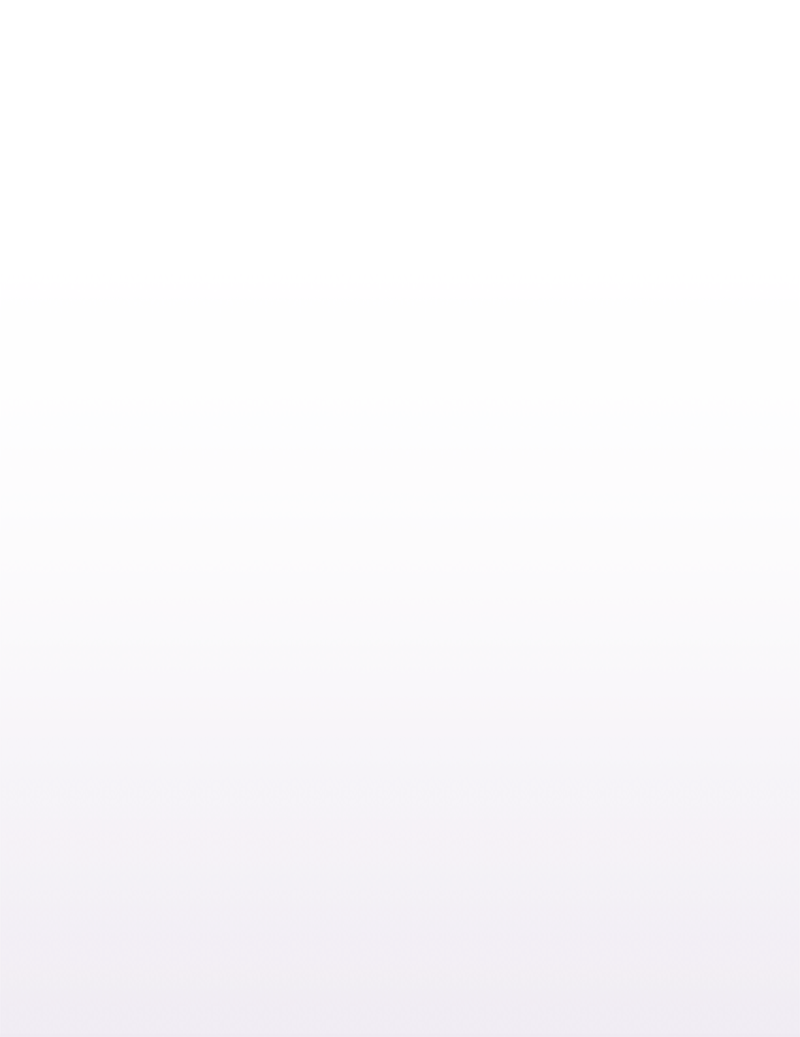
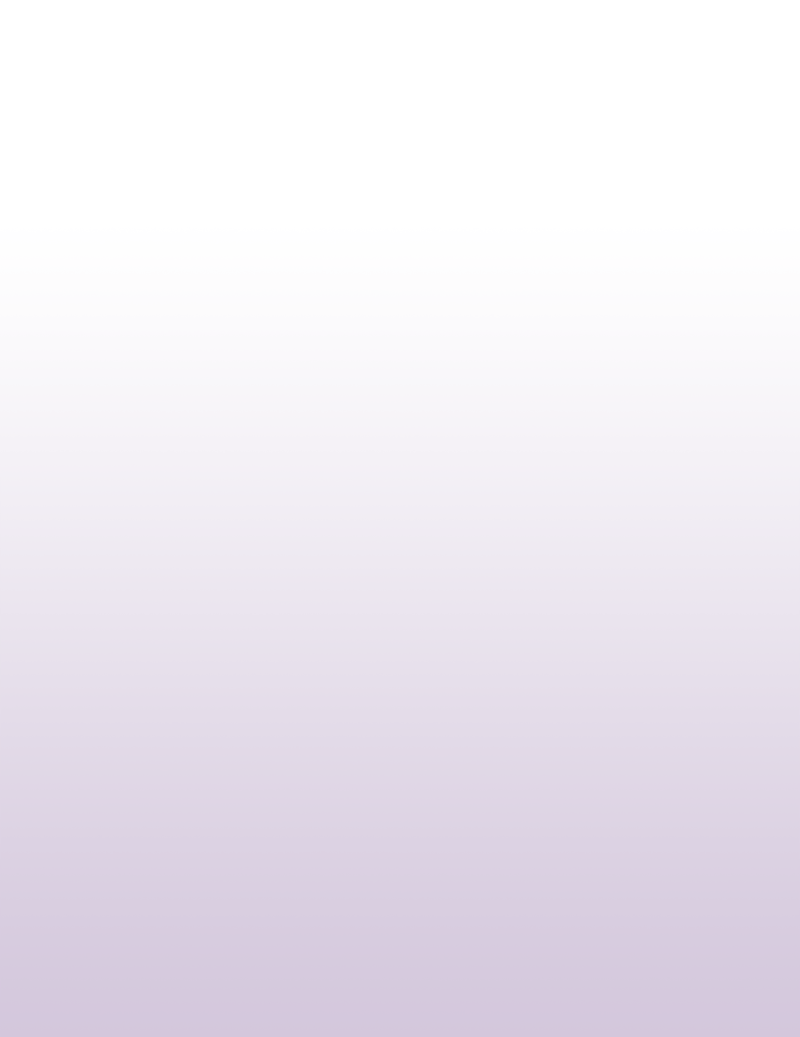
Update modals and gradient

diff --git a/src/screens/Home.js b/src/screens/Home.js
@@ -25,6 +25,7 @@ import Images from '../../assets/imgs/index';
 import Modal from "react-native-modal";
 import Icon from 'react-native-vector-icons/FontAwesome';
 
+// TODO make this carry a whole event object, and contain the modal to render! make this its own file too
 const EventCard = ({ name, saves, img, big }) => {
   const dimensions = require('Dimensions').get('window');
 
@@ -68,67 +69,223 @@ export default class Home extends Component<Props> {
     super(props);
     this.state = {
       isUpdatesModalVisible: false,
+      isPopularModalVisible: false,
+      isBeginnerModalVisible: false,
     }
     this.toggleUpdatesModal = this.toggleUpdatesModal.bind(this);
+    this.togglePopularModal = this.togglePopularModal.bind(this);
+    this.toggleBegModal = this.toggleBegModal.bind(this);
   }
 
-  toggleUpdatesModal = (question, answer) => {
+  toggleUpdatesModal() {
     this.setState({ isUpdatesModalVisible: !this.state.isUpdatesModalVisible })
   }
+  togglePopularModal() {
+    this.setState({ isPopularModalVisible: !this.state.isPopularModalVisible })
+  }
+  toggleBegModal() {
+    this.setState({ isBeginnerModalVisible: !this.state.isBeginnerModalVisible })
+  }
 
-  closeModal = () =>
-    this.setState({ isUpdatesModalVisible: false });
+  renderPopularModal = () => (
+    <Modal
+      isVisible={this.state.isPopularModalVisible}
+      backdropColor={'white'}
+      backdropOpacity={1}
+      animationInTiming={250}
+      animationIn="fadeIn"
+      animationOut="fadeOut"
+      animationOutTiming={250}
+      backdropTransitionInTiming={250}
+      backdropTransitionOutTiming={250}
+      avoidKeyboard={true}
+      onBackButtonPress={() => this.togglePopularModal()}
+    >
+      <ModalContent>
+        <ModalHeader
+          onBackButtonPress={() => this.togglePopularModal()}
+          heading="Popular Events"
+        />
+      </ModalContent>
+    </Modal>
+  )
 
-  render() {
+  renderBegModal = () => (
+    <Modal
+      isVisible={this.state.isBeginnerModalVisible}
+      backdropColor={'white'}
+      backdropOpacity={1}
+      animationInTiming={250}
+      animationIn="fadeIn"
+      animationOut="fadeOut"
+      animationOutTiming={250}
+      backdropTransitionInTiming={250}
+      backdropTransitionOutTiming={250}
+      avoidKeyboard={true}
+      onBackButtonPress={() => this.toggleBegModal()}
+    >
+      <ModalContent>
+        <ModalHeader
+          onBackButtonPress={() => this.toggleBegModal()}
+          heading="Best for Beginners"
+        />
+      </ModalContent>
+    </Modal>
+  )
+
+  renderUpdatesModal = () => (
+    <Modal
+      isVisible={this.state.isUpdatesModalVisible}
+      backdropColor={'white'}
+      backdropOpacity={1}
+      animationInTiming={250}
+      animationIn="fadeIn"
+      animationOut="fadeOut"
+      animationOutTiming={250}
+      backdropTransitionInTiming={250}
+      backdropTransitionOutTiming={250}
+      avoidKeyboard={true}
+      onBackButtonPress={() => this.toggleUpdatesModal()}
+    >
+      <ModalContent>
+        <ModalHeader
+          onBackButtonPress={() => this.toggleUpdatesModal()}
+          heading="Recent Updates"
+        />
+        <Spacing/>
+        <H4>11:15am</H4>
+        <H6>Lunch has beeen postponed until tomorrow.</H6>
+        <Spacing/>
+        <HorizontalLine/>
+        <Spacing/>
+        <H4>11:15am</H4>
+        <H6>Lunch has been postponed until tomorrow.</H6>
+        <Spacing/>
+        <HorizontalLine/>
+        <Spacing/>
+        <H4>11:15am</H4>
+        <H6>Lunch has been postponed until tomorrow.</H6>
+        <Spacing/>
+        <HorizontalLine/>
+        <Spacing/>
+        <H4>11:15am</H4>
+        <H6>Lunch has been postponed until tomorrow.</H6>
+        <Spacing/>
+        <HorizontalLine/>
+        <Spacing/>
+        <H4>11:15am</H4>
+        <H6>Lunch has been postponed until tomorrow.</H6>
+        <Spacing/>
+        <HorizontalLine/>
+        <Spacing/>
+      </ModalContent>
+    </Modal>
+  )
+
+  renderUpdatesSection = () => {
+    return (
+      <View>
+        {this.renderUpdatesModal()}
+        <PadContainer>
+          <H2 style={styles.heading}>Recent Updates</H2>
+        </PadContainer>
+        <TouchableOpacity onPress={() => this.toggleUpdatesModal()}>
+          <PaperSheet>
+            <H4>11:15am</H4>
+            <H6>Lunch has been postponed until tomorrow.</H6>
+            <Spacing/>
+            <HorizontalLine/>
+            <Spacing/>
+            <H6>View 5 other updates</H6>
+          </PaperSheet>
+        </TouchableOpacity>
+      </View>
+    );
+  }
+
+  renderPopularEventsSection = () => {
     const { width, height } = require('Dimensions').get('window');
     return (
+      <View>
+        {this.renderPopularModal()}
+
+        <PadContainer white style={styles.subSection}>
+          <H2>Popular Events</H2>
+        </PadContainer>
+
+        <View style={{ backgroundColor: 'white' }}>
+          <PadContainer white style={[styles.columnContainer, { width: width }]}>
+            <View style={styles.column}>
+              <EventCard name="Demo Event" saves="255" img="demo1"/>
+              <EventCard name="Demo Event" saves="255" img="demo1"/>
+              <EventCard name="Demo Event" saves="255" img="demo3"/>
+            </View>
+            <View style={{width: 20}}></View>
+            <View style={styles.column}>
+              <EventCard name="Demo Event" saves="255" img="demo2"/>
+              <EventCard name="Demo Event" saves="255" img="demo3"/>
+              <EventCard name="Demo Event" saves="255" img="demo1"/>
+            </View>
+          </PadContainer>
+          <TouchableOpacity onPress={() => this.togglePopularModal()}>
+            <Button text="View All" />
+          </TouchableOpacity>
+          <Spacing />
+        </View>
+
+      </View>
+    )
+  }
+
+  renderBestForBeginnersSection = () => {
+    const { width, height } = require('Dimensions').get('window');
+    return (
+      <View style={{ backgroundColor: 'white' }}>
+
+        {this.renderBegModal()}
+
+        <PadContainer white style={styles.subSection}>
+          <H2>Best for Beginners</H2>
+        </PadContainer>
+
+        <PadContainer white style={[styles.columnContainer, { width: width }]}>
+          <View style={styles.column}>
+            <EventCard name="Demo Event" saves="255" img="demo1"/>
+            <EventCard name="Demo Event" saves="255" img="demo1"/>
+            <EventCard name="Demo Event" saves="255" img="demo3"/>
+
+          </View>
+
+          <View style={{width: 20}}></View>
+
+          <View style={styles.column}>
+            <EventCard name="Demo Event" saves="255" img="demo2"/>
+            <EventCard name="Demo Event" saves="255" img="demo3"/>
+            <EventCard name="Demo Event" saves="255" img="demo1"/>
+          </View>
+        </PadContainer>
+        <TouchableOpacity onPress={() => this.toggleBegModal()}>
+          <Button text="View All" />
+        </TouchableOpacity>
+        <Spacing />
+      </View>
+    )
+  }
+
+  renderMapSection = () => (
+    <View style={{ backgroundColor: 'white' }}>
+      <PadContainer white style={styles.subSection}>
+        <H2>Venue Map</H2>
+      </PadContainer>
+      <PadContainer>
+        <EventCard big img="demo1"/>
+      </PadContainer>
+    </View>
+  )
+
+  render() {
+    return (
       <GradientBackground>
-        <Modal
-          isVisible={this.state.isUpdatesModalVisible}
-          backdropColor={'white'}
-          backdropOpacity={1}
-          animationInTiming={250}
-          animationIn="fadeIn"
-          animationOut="fadeOut"
-          animationOutTiming={250}
-          backdropTransitionInTiming={250}
-          backdropTransitionOutTiming={250}
-          avoidKeyboard={true}
-          onBackButtonPress={() => this.toggleUpdatesModal()}
-        >
-          <ModalContent>
-            <ModalHeader
-              onBackButtonPress={() => this.toggleUpdatesModal()}
-              heading="Recent Updates"
-            />
-            <Spacing/>
-            <H4>11:15am</H4>
-            <H6>Lunch has beeen postponed until tomorrow.</H6>
-            <Spacing/>
-            <HorizontalLine/>
-            <Spacing/>
-            <H4>11:15am</H4>
-            <H6>Lunch has been postponed until tomorrow.</H6>
-            <Spacing/>
-            <HorizontalLine/>
-            <Spacing/>
-            <H4>11:15am</H4>
-            <H6>Lunch has been postponed until tomorrow.</H6>
-            <Spacing/>
-            <HorizontalLine/>
-            <Spacing/>
-            <H4>11:15am</H4>
-            <H6>Lunch has been postponed until tomorrow.</H6>
-            <Spacing/>
-            <HorizontalLine/>
-            <Spacing/>
-            <H4>11:15am</H4>
-            <H6>Lunch has been postponed until tomorrow.</H6>
-            <Spacing/>
-            <HorizontalLine/>
-            <Spacing/>
-          </ModalContent>
-        </Modal>
         <ViewContainer>
           <PadContainer>
             <Heading>
@@ -138,78 +295,10 @@ export default class Home extends Component<Props> {
               16h 34m 53s left to hack
             </SubHeading>
           </PadContainer>
-
-          <PadContainer>
-            <H2 style={styles.heading}>Recent Updates</H2>
-          </PadContainer>
-          <TouchableOpacity onPress={() => this.toggleUpdatesModal()}>
-            <PaperSheet>
-              <H4>11:15am</H4>
-              <H6>Lunch has been postponed until tomorrow.</H6>
-              <Spacing/>
-              <HorizontalLine/>
-              <Spacing/>
-              <H6>View 5 other updates</H6>
-            </PaperSheet>
-          </TouchableOpacity>
-
-          <PadContainer white style={styles.subSection}>
-            <H2>Popular Events</H2>
-          </PadContainer>
-
-          <View style={styles.bottomContainer}>
-            <PadContainer white style={[styles.columnContainer, { width: width }]}>
-              <View style={styles.column}>
-                <EventCard name="Demo Event" saves="255" img="demo1"/>
-                <EventCard name="Demo Event" saves="255" img="demo1"/>
-                <EventCard name="Demo Event" saves="255" img="demo3"/>
-              </View>
-              <View style={{width: 20}}></View>
-              <View style={styles.column}>
-                <EventCard name="Demo Event" saves="255" img="demo2"/>
-                <EventCard name="Demo Event" saves="255" img="demo3"/>
-                <EventCard name="Demo Event" saves="255" img="demo1"/>
-              </View>
-            </PadContainer>
-
-            <Button text="View All" />
-            <Spacing />
-
-            <PadContainer white style={styles.subSection}>
-              <H2>Best for Beginners</H2>
-            </PadContainer>
-
-            <PadContainer white style={[styles.columnContainer, { width: width }]}>
-              <View style={styles.column}>
-                <EventCard name="Demo Event" saves="255" img="demo1"/>
-                <EventCard name="Demo Event" saves="255" img="demo1"/>
-                <EventCard name="Demo Event" saves="255" img="demo3"/>
-
-              </View>
-
-              <View style={{width: 20}}></View>
-
-              <View style={styles.column}>
-                <EventCard name="Demo Event" saves="255" img="demo2"/>
-                <EventCard name="Demo Event" saves="255" img="demo3"/>
-                <EventCard name="Demo Event" saves="255" img="demo1"/>
-              </View>
-            </PadContainer>
-
-            <Button text="View All" />
-            <Spacing />
-
-            <PadContainer white style={styles.subSection}>
-              <H2>Venue Map</H2>
-            </PadContainer>
-            <PadContainer>
-              <EventCard big img="demo1"/>
-            </PadContainer>
-
-
-
-          </View>
-
+          {this.renderUpdatesSection()}
+          {this.renderPopularEventsSection()}
+          {this.renderBestForBeginnersSection()}
+          {this.renderMapSection()}
         </ViewContainer>
       </GradientBackground>
     );

diff --git a/src/components/Base.js b/src/components/Base.js
@@ -179,13 +179,11 @@ const ModalHeader = (props) => (
 
 const Button = (props) => (
   <View style={{ backgroundColor: 'white' }}>
-    <TouchableOpacity>
-      <View style={styles.button}>
-        <H3 style={styles.buttonText}>
-          {props.text}
-        </H3>
-      </View>
-    </TouchableOpacity>
+    <View style={styles.button}>
+      <H3 style={styles.buttonText}>
+        {props.text}
+      </H3>
+    </View>
   </View>
 )
 
